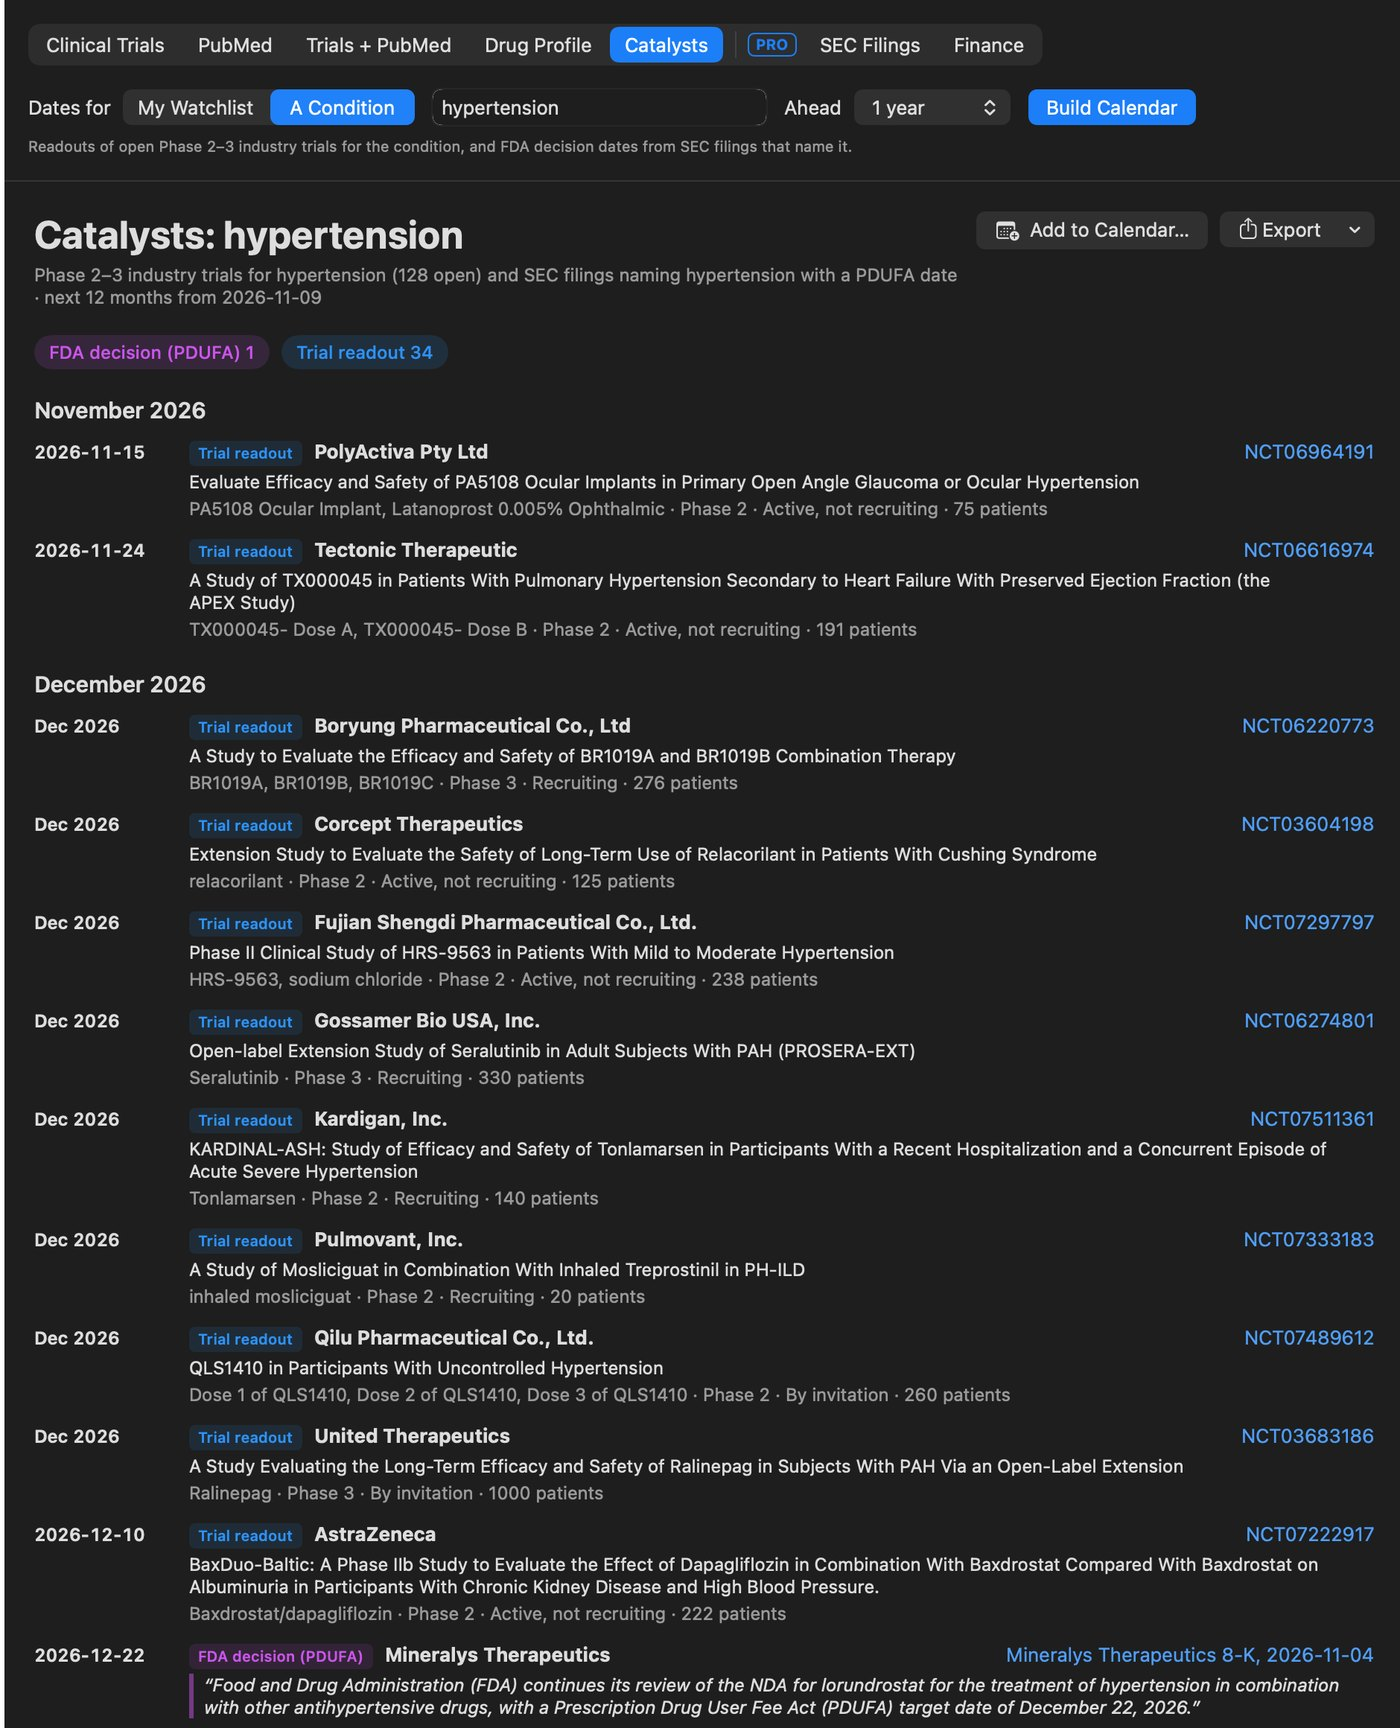
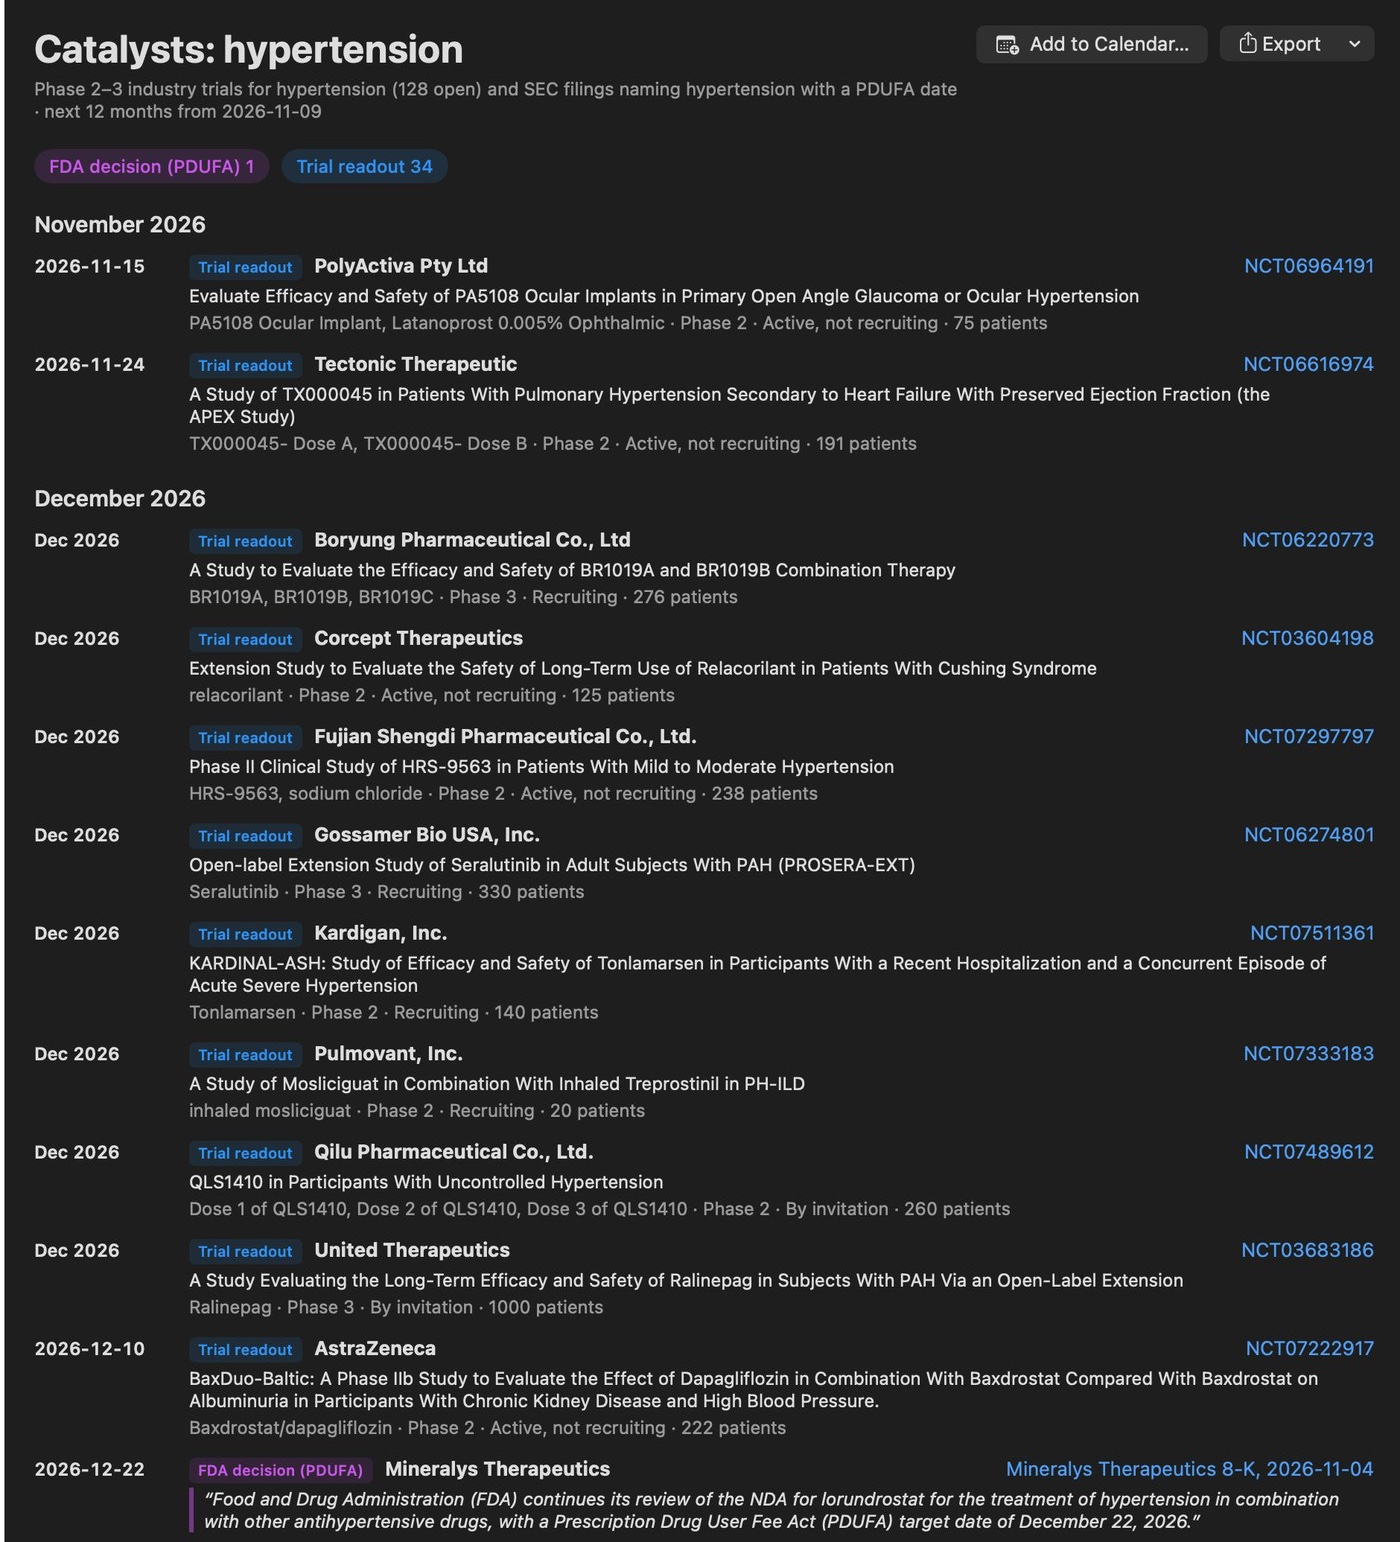
Crop the old sidebar and tab bar out of three screenshots

diff --git a/docs/finance/index.html b/docs/finance/index.html
@@ -493,7 +493,7 @@
 					</ul>
 				</div>
 				<div class="col-lg-7">
-					<a href="../assets/img/trialcarta/catalyst-calendar.jpg" target="_blank" rel="noopener"><img class="d-block w-100 rounded-4 shadow" src="../assets/img/trialcarta/catalyst-calendar.jpg" loading="lazy" alt="TrialCarta's catalyst calendar for hypertension: trial readouts by month, and an FDA decision date quoted from a company's filing"></a>
+					<a href="../assets/img/trialcarta/catalyst-calendar.jpg?v=2" target="_blank" rel="noopener"><img class="d-block w-100 rounded-4 shadow" src="../assets/img/trialcarta/catalyst-calendar.jpg?v=2" loading="lazy" alt="TrialCarta's catalyst calendar for hypertension: trial readouts by month, and an FDA decision date quoted from a company's filing"></a>
 					<p class="fs-sm text-body-secondary mt-2 mb-0">A live run on public data. Click to enlarge.</p>
 				</div>
 			</div>
@@ -507,7 +507,7 @@
 					</ul>
 				</div>
 				<div class="col-lg-7">
-					<a href="../assets/img/trialcarta/drug-patents.jpg" target="_blank" rel="noopener"><img class="d-block w-100 rounded-4 shadow" src="../assets/img/trialcarta/drug-patents.jpg" loading="lazy" alt="TrialCarta's Drug Profile for Ohtuvayre: FDA approval, new chemical entity exclusivity, the date a patent challenge can be filed, and five listed patents with their end dates"></a>
+					<a href="../assets/img/trialcarta/drug-patents.jpg?v=2" target="_blank" rel="noopener"><img class="d-block w-100 rounded-4 shadow" src="../assets/img/trialcarta/drug-patents.jpg?v=2" loading="lazy" alt="TrialCarta's Drug Profile for Ohtuvayre: FDA approval, new chemical entity exclusivity, the date a patent challenge can be filed, and five listed patents with their end dates"></a>
 					<p class="fs-sm text-body-secondary mt-2 mb-0">A Drug Profile from a live run on public data.</p>
 				</div>
 			</div>

diff --git a/docs/examples/index.html b/docs/examples/index.html
@@ -330,7 +330,7 @@
 				</div>
 				<div class="col">
 					<a class="card border-0 h-100 rounded-5 text-decoration-none" href="../guides/check-memo-trial-dates/">
-						<img class="card-img-top rounded-top-5 border-bottom" style="height: 220px; object-fit: cover; object-position: center;" src="../assets/img/trialcarta/catalyst-calendar.jpg" loading="lazy" alt="A catalyst calendar of trial readouts and an FDA decision date quoted from a filing">
+						<img class="card-img-top rounded-top-5 border-bottom" style="height: 220px; object-fit: cover; object-position: center;" src="../assets/img/trialcarta/catalyst-calendar.jpg?v=2" loading="lazy" alt="A catalyst calendar of trial readouts and an FDA decision date quoted from a filing">
 						<div class="card-body">
 							<span class="badge fs-sm bg-primary bg-opacity-10 text-primary mb-2">Guide · biotech finance</span>
 							<h2 class="h5">Check that your memo's trial dates are still right</h2>

diff --git a/docs/index.html b/docs/index.html
@@ -68,7 +68,7 @@
       "operatingSystem": "macOS 14 or later, Apple silicon",
       "description": "TrialCarta searches ClinicalTrials.gov and PubMed, charts the trial landscape, compares eligibility with your own protocol, and answers questions with every citation checked. For study teams it compares protocol versions, turns the schedule of assessments into a visit checklist, checks redaction and finds competing trials near a site. It runs on your own computer, so confidential documents never leave it.",
       "image": "https://www.trialcarta.com/assets/img/trialcarta/og-card.jpg",
-      "screenshot": "https://www.trialcarta.com/assets/img/trialcarta/protocol-offline.jpg",
+      "screenshot": "https://www.trialcarta.com/assets/img/trialcarta/protocol-offline.jpg?v=2",
       "publisher": { "@id": "https://www.trialcarta.com/#org" }
     }
   ]

diff --git a/docs/security/index.html b/docs/security/index.html
@@ -358,7 +358,7 @@
 					</ul>
 				</div>
 				<div class="col-lg-6">
-					<img class="d-block w-100 rounded-4 shadow" src="../assets/img/trialcarta/protocol-offline.jpg" loading="lazy" alt="TrialCarta with Internet Access off, comparing a confidential protocol's eligibility criteria with three competing phase 3 trials">
+					<img class="d-block w-100 rounded-4 shadow" src="../assets/img/trialcarta/protocol-offline.jpg?v=2" loading="lazy" alt="TrialCarta with Internet Access off, comparing a confidential protocol's eligibility criteria with three competing phase 3 trials">
 				</div>
 			</div>
 		</section>

diff --git a/docs/clinical-ops/index.html b/docs/clinical-ops/index.html
@@ -311,7 +311,7 @@
 					</div>
 				</div>
 				<div class="col-lg-7">
-					<img class="d-block w-100 rounded-4 shadow-lg" src="../assets/img/trialcarta/protocol-offline.jpg" alt="TrialCarta with Internet Access off, comparing a confidential protocol's eligibility criteria with three competing phase 3 trials">
+					<img class="d-block w-100 rounded-4 shadow-lg" src="../assets/img/trialcarta/protocol-offline.jpg?v=2" alt="TrialCarta with Internet Access off, comparing a confidential protocol's eligibility criteria with three competing phase 3 trials">
 				</div>
 			</div>
 		</section>
